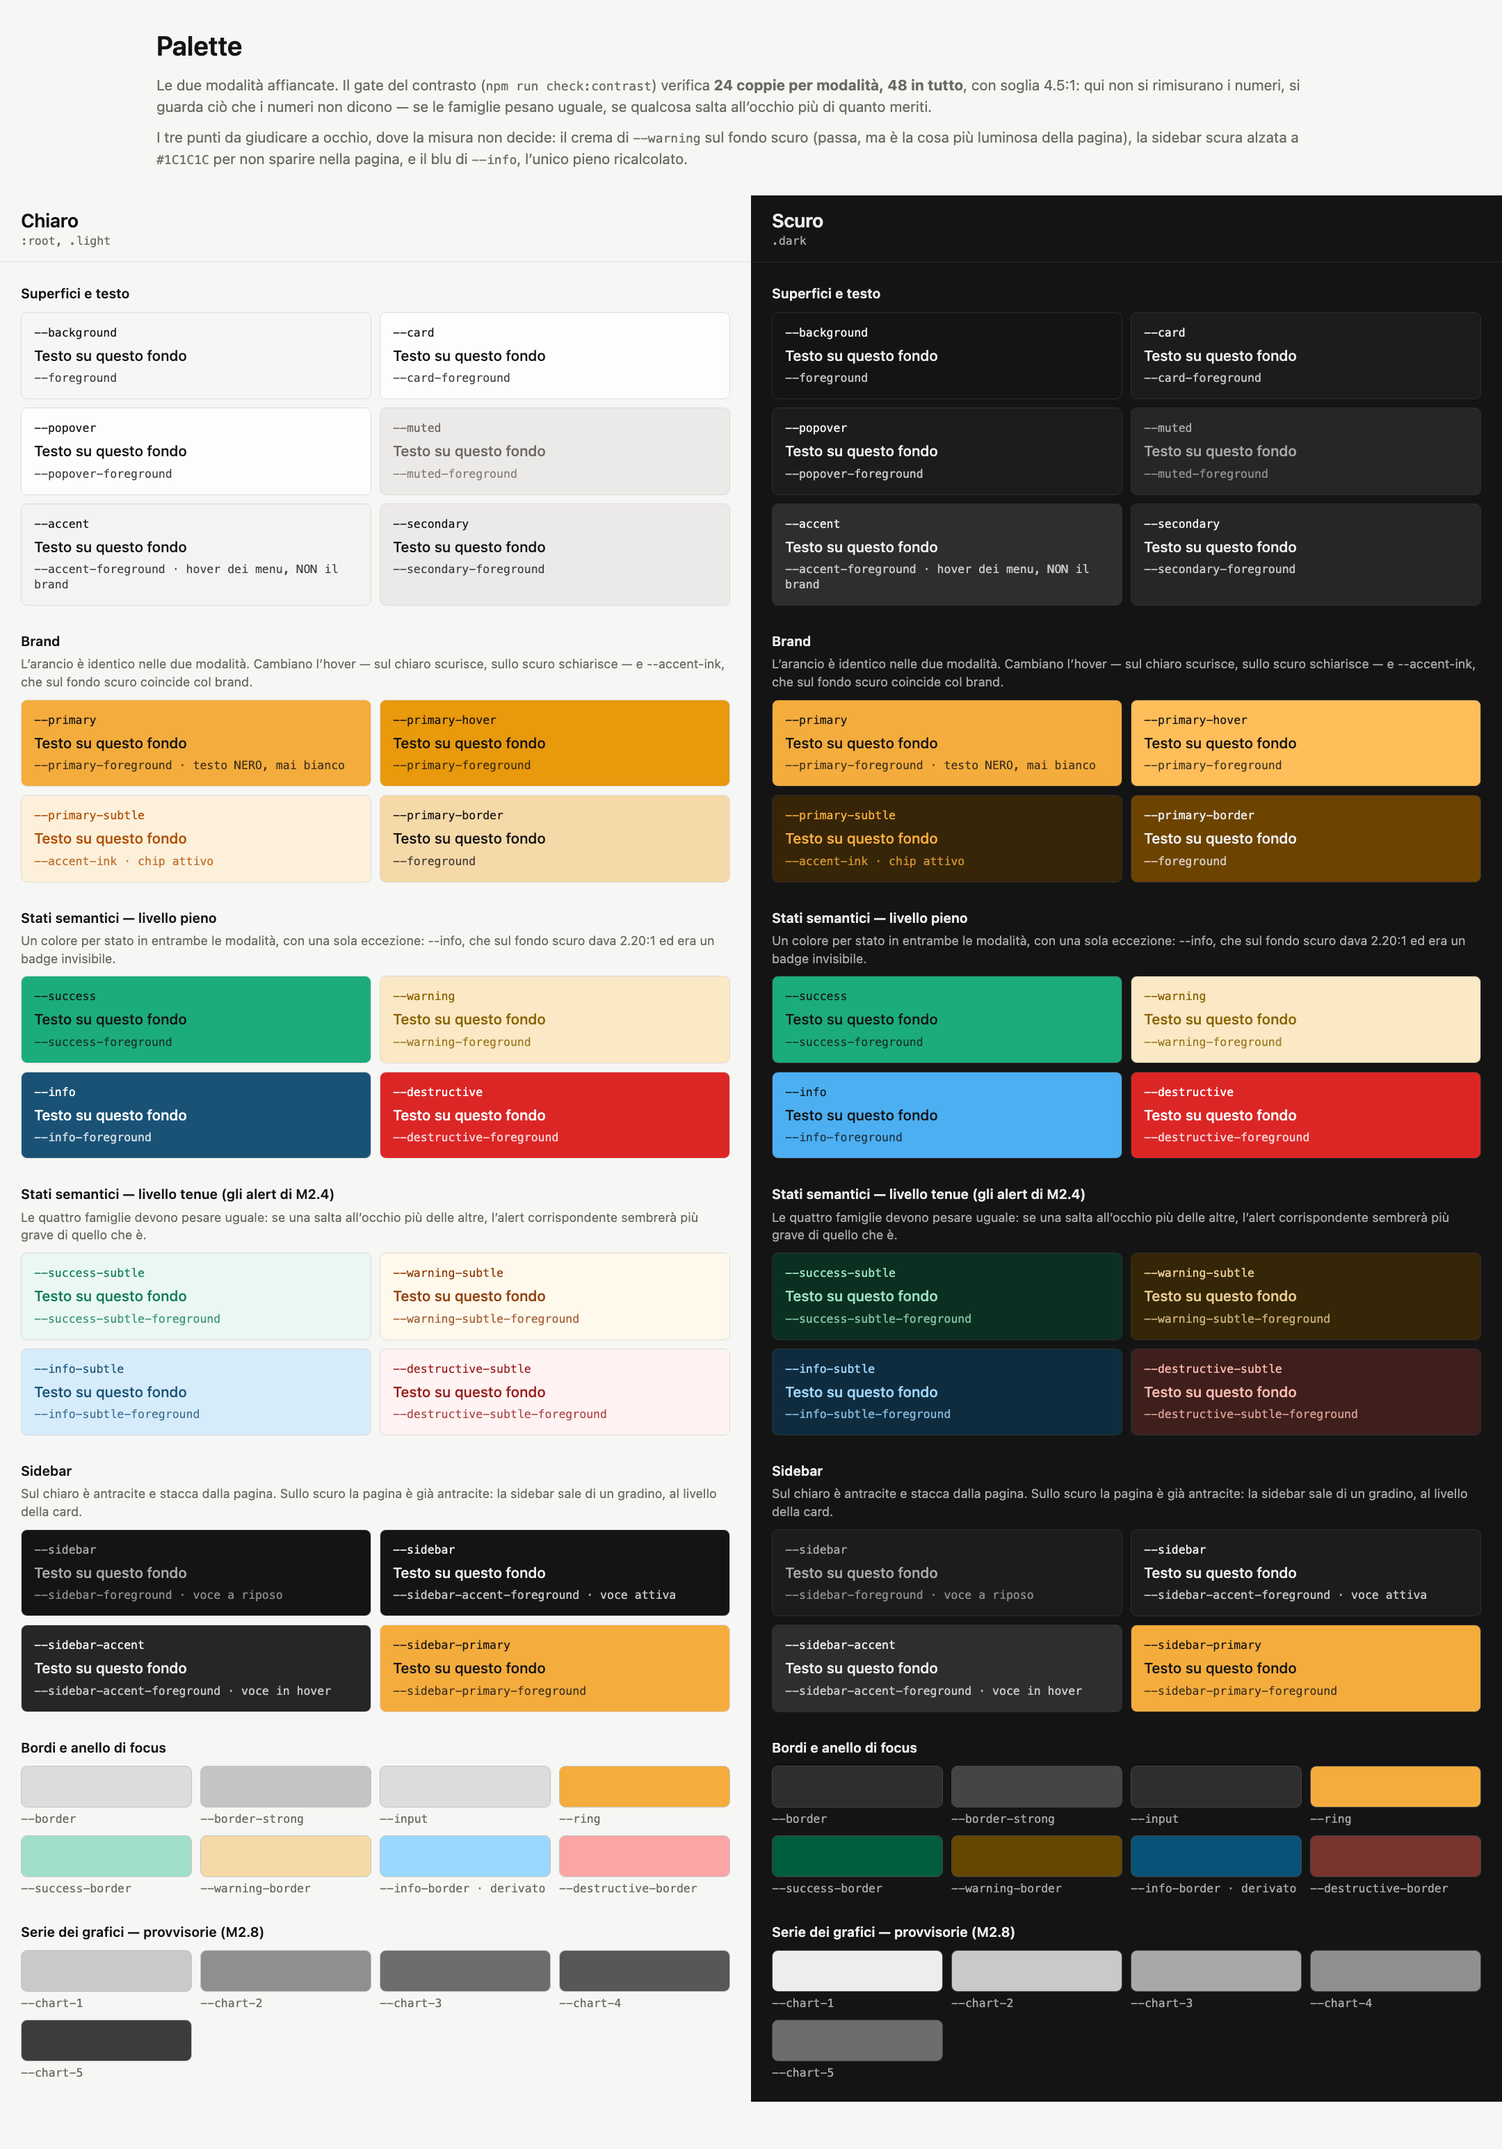
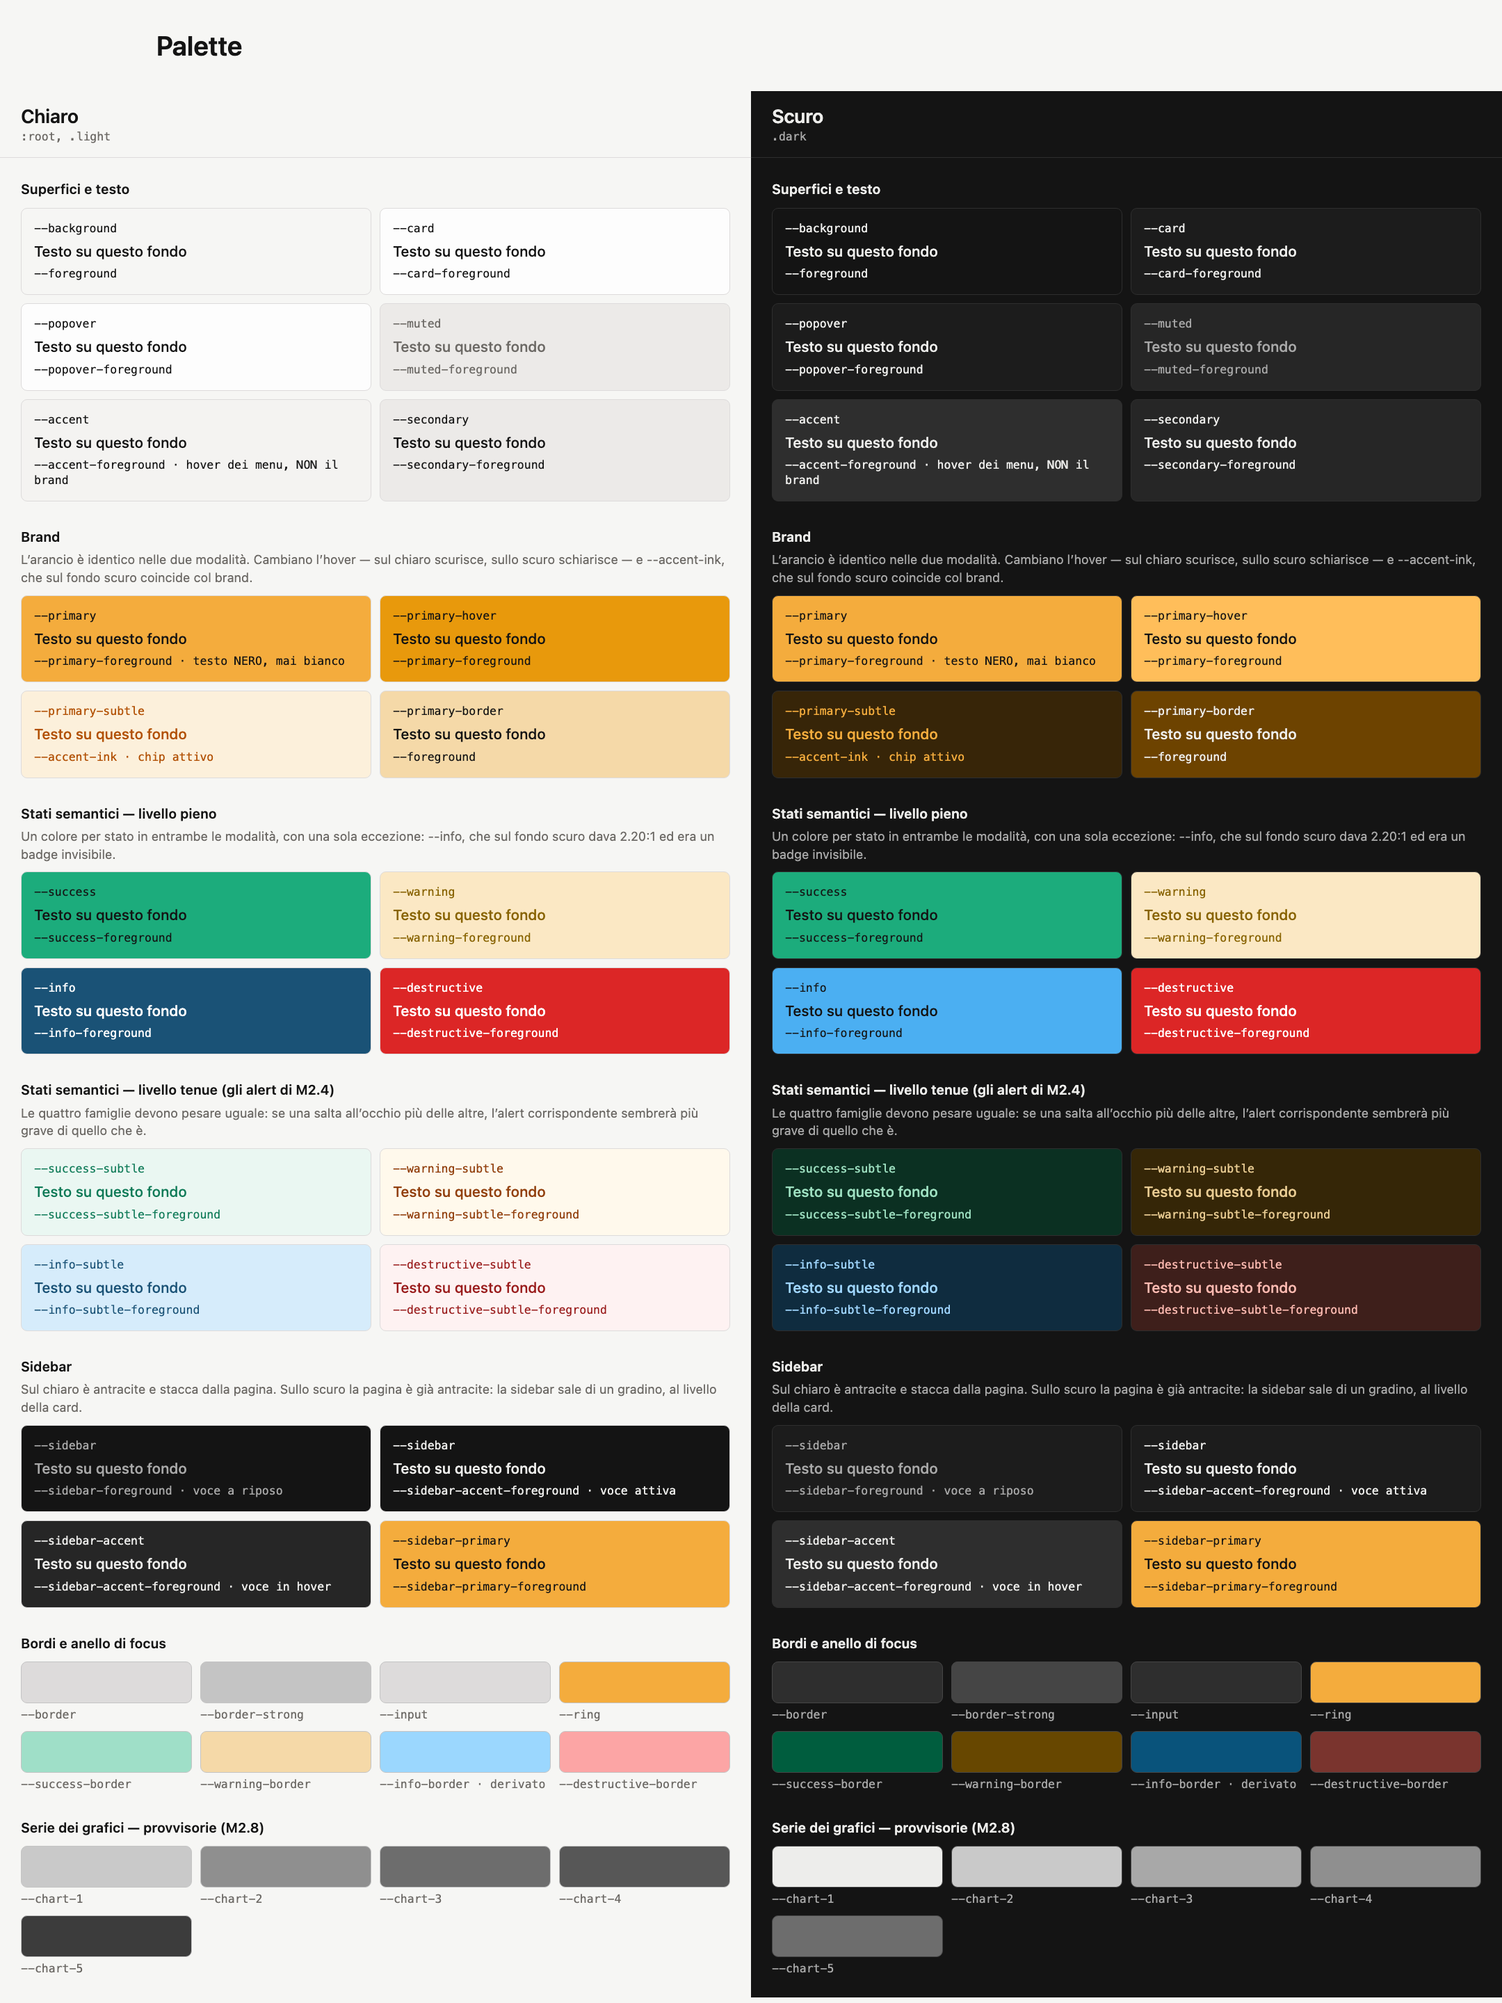
Palette: via il preambolo e l'opacità che rompeva il contrasto
Il pannello Accessibility segnava 9 violazioni color-contrast, tutte
sulla pagina appena scritta e tutte la stessa cosa: `opacity-80` sulla
terza riga di ogni tessera. Una coppia che passa a 4.55:1 sbiadita
all'80% scende a 3.17:1 — la pagina che dimostra il contrasto lo
stava rompendo. L'opacità su un testo non è una scelta tipografica: è
un cambio di colore che nessun token dichiara e che `check:contrast`
non può vedere, perché avviene in composizione.

Tolti anche i due paragrafi di commento dall'intestazione.

axe ora è a 0 violazioni e 0 incomplete sulla Palette. Passato sullo
stesso controllo, `button` conferma i due rilievi già in carico a
M2.1 e corregge le mie stime a mano: destructive 3.82:1 in chiaro e
3.57:1 in scuro, link 1.79:1 in chiaro e nessuna violazione in scuro
— cioè un difetto che una sola delle due modalità rivela.

Il controllo diventa una regola in CLAUDE.md §Conduzione, e M2.9
guadagna la sua condizione d'ingresso: zero violazioni aperte prima
di girare l'interruttore, o la CI nasce rossa.

diff --git a/stories/Palette.stories.tsx b/stories/Palette.stories.tsx
@@ -19,6 +19,16 @@ import type { Meta, StoryObj } from '@storybook/react-vite'
  * `npm run check:contrast`, che è il gate. Una seconda misura in pagina
  * potrebbe divergere dalla prima, e allora non si saprebbe a quale credere.
  * Il click-to-copy e l'elenco completo dei token arrivano in M1.5.
+ *
+ * **Niente `opacity-*` sul testo, mai, e qui meno che altrove.** La prima
+ * versione di questa pagina metteva `opacity-80` sulla terza riga di ogni
+ * tessera per attenuarla: axe-core ha trovato 9 violazioni di contrasto, tutte
+ * lì. Una coppia che passa a 4.55:1 sbiadita all'80% scende a 3.17:1 — la
+ * pagina che dimostra il contrasto lo stava rompendo. L'opacità su un testo
+ * NON è una scelta tipografica: è un cambio di colore che nessun token
+ * dichiara e che il gate delle coppie non può vedere, perché avviene in
+ * composizione, nel browser. Se una riga deve pesare meno, si usa un token
+ * più tenue — che è già stato misurato — o un gradino tipografico più piccolo.
  */
 
 type Tessera = { token: string; su?: string; nota?: string }
@@ -118,7 +128,7 @@ function Coppia({ token, su, nota }: Tessera) {
       <div className="mt-1 text-base font-medium" style={{ color: `var(--${su})` }}>
         Testo su questo fondo
       </div>
-      <div className="mt-1 font-mono text-xs opacity-80" style={{ color: `var(--${su})` }}>
+      <div className="mt-1 font-mono text-xs" style={{ color: `var(--${su})` }}>
         --{su}
         {nota ? ` · ${nota}` : ''}
       </div>
@@ -184,20 +194,6 @@ function Affiancate() {
     <div className="min-h-dvh bg-background">
       <header className="mx-auto max-w-page px-5 pt-6 pb-2">
         <h1 className="text-title font-semibold text-foreground">Palette</h1>
-        <p className="mt-2 text-base text-muted-foreground">
-          Le due modalità affiancate. Il gate del contrasto (
-          <code className="font-mono text-sm">npm run check:contrast</code>) verifica{' '}
-          <strong>24 coppie per modalità, 48 in tutto</strong>, con soglia 4.5:1: qui non si
-          rimisurano i numeri, si guarda ciò che i numeri non dicono — se le famiglie pesano
-          uguale, se qualcosa salta all’occhio più di quanto meriti.
-        </p>
-        <p className="mt-2 text-base text-muted-foreground">
-          I tre punti da giudicare a occhio, dove la misura non decide: il crema di{' '}
-          <code className="font-mono text-sm">--warning</code> sul fondo scuro (passa, ma è la cosa
-          più luminosa della pagina), la sidebar scura alzata a{' '}
-          <code className="font-mono text-sm">#1C1C1C</code> per non sparire nella pagina, e il blu
-          di <code className="font-mono text-sm">--info</code>, l’unico pieno ricalcolato.
-        </p>
       </header>
       <div className="mt-4 grid grid-cols-1 lg:grid-cols-2">
         <Colonna modo="light" etichetta="Chiaro" />

diff --git a/WORKLOG.md b/WORKLOG.md
@@ -405,3 +405,45 @@ Cambiato anche `--overlay`, da 45% a 70% dello stesso nero Tassullo: un velo al 
 ### Prossimi passi
 
 **M1.4** — densità touch. Sono già noti i due pezzi che mancano: lo **scatto di tipografia**, che non deriva da `--spacing` e quindi non arriva da solo, e la verifica che lo scaling non deformi larghezze massime, icone e sidebar. Il valore provvisorio in `src/index.css` è `0.34375rem` e va chiuso lì (`docs/DECISIONI.md` §6). Con M1.3 fatto, la densità va ora provata su **quattro** combinazioni e non due.
+
+## 2026-09-07 — Il pannello Accessibility guardato davvero: 9 violazioni, tutte mie
+
+Rilievo di Francesco su M1.3, e aveva ragione due volte: sulla pagina Palette (troppo testo di commento) e sul pannello **Accessibility** di Storybook, che segnava **Violations 1** — *serious*, `color-contrast`, 9 nodi. Avevo dichiarato il task finito senza aprirlo. È il difetto più imbarazzante possibile su un task il cui criterio è il contrasto.
+
+### Cosa dice axe, e cosa dicevo io
+
+Prima di guardare ho provato a stimare a mano con uno script nel browser: **sbagliava tutto**, perché i colori calcolati sono `oklch(…)` e il mio parser leggeva i numeri come se fossero RGB — 216 falsi positivi con rapporto 1.00 su testo perfettamente leggibile. Scartato e caricato axe-core vero (`node_modules/axe-core`, servito via `/@fs/` dal dev server di Storybook). Lezione secca: **quando esiste lo strumento, si usa lo strumento**; una misura fatta al volo che non si sa validare è peggio di nessuna misura, perché sembra un dato.
+
+Le 9 violazioni erano **tutte la stessa cosa, e tutte mie**: `opacity-80` sulla terza riga di ogni tessera, messa per attenuarla. Una coppia che passa a 4.55:1 sbiadita all'80% scende a **3.17:1**. La pagina che dimostra il contrasto lo stava rompendo.
+
+**Il punto generale, che vale oltre questa pagina.** `opacity-*` su un testo **non è una scelta tipografica**: è un cambio di colore che nessun token dichiara e che avviene *in composizione*, nel browser. `check:contrast` non può vederlo — verifica coppie di token, e i due token qui sono giusti. Se una riga deve pesare meno si usa un token più tenue, che è già stato misurato, o un gradino tipografico più piccolo. Scritto nel commento in testa alla story, dove chi la modifica lo trova.
+
+Tolta l'opacità e tolti i due paragrafi di commento dall'intestazione: **axe su tutte le regole, 0 violazioni e 0 incomplete**, 9 controlli passati.
+
+### E intanto axe ha confermato i rilievi su `button`, correggendo le mie stime
+
+Passato lo stesso controllo su `Primitive/Button`, in **entrambe** le modalità:
+
+| variante | chiaro | scuro |
+|---|---|---|
+| `destructive` | **3.82:1** | **3.57:1** |
+| `link` | **1.79:1** | *nessuna violazione* |
+
+Due cose. La prima: axe **conferma sperimentalmente** ciò che avevo dedotto poche ore fa dai token — il difetto di `link` **esiste solo in chiaro** e in scuro non compare affatto. La seconda: le mie stime a mano per `destructive` (3.94 chiaro / 3.25 scuro) erano **sbagliate di poco ma sbagliate**, perché calcolavo la composizione io invece di leggere il pixel. Le misure di axe sostituiscono le mie nel blocco M2.1, e da qui in poi **fa fede axe**.
+
+### La regola, perché non dipenda dal fatto che me lo ricordi
+
+In `CLAUDE.md` §Conduzione: **prima di dichiarare finito un task, il pannello Accessibility di ogni story toccata deve essere a zero violazioni, guardato in entrambe le modalità.** Una violazione o si chiude, o si annota nel blocco del task che la chiuderà, con la misura.
+
+Con una precisazione che mancava in tutto il piano e che chiarisce M2.9: **axe-core c'è già**, è nel pannello di ogni story dal primo giorno. Quello che M2.9 aggiunge non è lo strumento ma l'**automazione** (`a11y.test = 'error'` in CI). Annotata anche la sua **condizione d'ingresso**: il conto delle violazioni aperte deve essere zero prima di girare l'interruttore, e oggi non lo è (2 su `button`, in carico a M2.1). Una CI rossa il primo giorno è una CI che qualcuno disattiva la settimana dopo.
+
+### Verifiche eseguite
+
+- axe-core su `Tema/Palette`, tutte le regole: **0 violazioni, 0 incomplete, 9 passate**.
+- axe-core su `Primitive/Button` in chiaro e in scuro: 2 violazioni note, entrambe già in carico a M2.1 e ora misurate.
+- `npm run check` (contrasto + registry), `npx tsc -b --force`, `npx oxlint`, `npm run build`, `npm run build-storybook`: verdi.
+- Screenshot `docs/img/M1.3-palette-chiaro-scuro.png` rifatto sulla pagina corretta.
+
+### Rimasto fuori, di proposito
+
+Le note **sotto ogni gruppo** ("L'arancio è identico nelle due modalità…", "Le quattro famiglie devono pesare uguale…") sono rimaste: sono didascalie del gruppo, non preambolo, e servono a dire cosa guardare in quelle tessere. Se anche quelle sono di troppo, si tolgono.

diff --git a/PIANO.md b/PIANO.md
@@ -191,9 +191,18 @@ Le primitive si aggiungono con `npx shadcn@latest add <nome>` **dentro `registry
   **Rimisurati in modalità scura (M1.3, 2026-09-07), e cambiano il quadro su due punti:**
 
   - `variant: link` in dark dà **9.49:1** e passa. Il difetto **esiste solo in chiaro**, quindi guardando la primitiva con l'interruttore sullo scuro sembra a posto: è il primo caso concreto di un rilievo che una sola delle quattro combinazioni rivela, ed è la ragione per cui l'accettazione ne chiede quattro. Il rimedio previsto regge in entrambe perché `--accent-ink` è definito per modalità: `text-accent-ink` dà 4.77:1 in chiaro e 9.49:1 in scuro, **una sola classe**.
-  - `variant: destructive` in dark dà **3.25:1** (fondo composito `#3C1818`, testo `#DC2626`): peggiora, e resta sotto soglia in entrambe le modalità. La correzione prevista non cambia.
+  - `variant: destructive` resta sotto soglia in entrambe. La correzione prevista non cambia.
 
-  Da qui una regola operativa per tutta la FASE 2: **una misura fatta in una sola modalità non è una misura.** Le coppie di token le copre `check:contrast` su entrambe; come i componenti le accostano no, e finché non c'è axe-core (M2.9) lo copre solo l'occhio — su tutte e quattro le combinazioni.
+  **Misure rifatte con axe-core sulla story `Primitive/Button` (2026-09-07), e sono queste a fare fede** — non le stime a mano di §2bis, che le precedono e che axe corregge leggendo il pixel composito invece del token:
+
+  | variante | chiaro | scuro |
+  |---|---|---|
+  | `destructive` | **3.82:1** | **3.57:1** |
+  | `link` | **1.79:1** | *nessuna violazione* |
+
+  Sono le **2 violazioni axe oggi aperte** in tutto il progetto, entrambe in carico a questo task. Chiuderle qui riporta il conto a zero, che è la condizione da cui M2.9 deve partire per poter mettere `a11y.test = 'error'` senza trovarsi la CI rossa il primo giorno.
+
+  Da qui una regola operativa per tutta la FASE 2: **una misura fatta in una sola modalità non è una misura.** Le coppie di token le copre `check:contrast` su entrambe; come i componenti le accostano no. **axe-core c'è già** — è nel pannello Accessibility di ogni story, dal primo giorno: quello che M2.9 aggiunge non è lo strumento ma l'**automazione** (`a11y.test = 'error'` in CI). Fino ad allora il pannello si guarda a mano, in entrambe le modalità, prima di dichiarare finito un task (regola in `CLAUDE.md` §Conduzione).
 
   **Nota sulla scala tipografica**: con la scala Tassullo `text-sm` vale 12px invece dei 14px di default di Tailwind, quindi i bottoni del preset — che usano `text-sm` — sono più piccoli di prima. Da decidere qui quale gradino è quello giusto per il bottone, misurando.
 
@@ -248,6 +257,10 @@ Le primitive si aggiungono con `npx shadcn@latest add <nome>` **dentro `registry
   **Da fare passare anche `npm run check:registry`** (regola 4bis): a fine FASE 2 ogni primitiva deve avere il suo originale in `registry/.upstream/`, forma identica a shadcn, zero valori arbitrari nostri, e il conto dei token custom usati dentro i componenti scritto a verbale — è il costo che si pagherà a ogni aggiornamento di shadcn, e va conosciuto prima di arrivare a 40 componenti.
 
   **Perché questo gate non è rimandabile.** `check:contrast` (M1.1) verifica le **coppie di token**, non come i componenti le accostano. In M1.2 tre difetti reali della `button` del preset — fra cui un `text-primary` a 1.79:1 — sono passati sotto al gate e sono stati trovati a occhio sul workbench. axe-core sulle story è il controllo che li avrebbe presi: finché non c'è, ogni primitiva della FASE 2 va guardata a mano.
+
+  **Precisazione da M1.3 (2026-09-07): axe-core c'è già** — è nel pannello Accessibility di ogni story dal primo giorno, e in M1.3 ha trovato **9 violazioni vere** su una pagina appena scritta. Quello che manca, e che questo task aggiunge, non è lo strumento ma **l'automazione**: oggi il pannello va aperto a mano e nulla obbliga a farlo. Fino ad allora la regola sta in `CLAUDE.md` §Conduzione — pannello a zero, in entrambe le modalità, prima di dichiarare finito un task.
+
+  **Condizione d'ingresso di questo task**, e va verificata prima di girare l'interruttore: il conto delle violazioni aperte deve essere **zero**. Non lo è: `Primitive/Button` ne ha 2, in carico a M2.1. Mettere `a11y.test = 'error'` con violazioni note aperte significa una CI rossa il primo giorno, e una CI rossa il primo giorno è una CI che qualcuno disattiva la settimana dopo.
 
 ---
 

diff --git a/CLAUDE.md b/CLAUDE.md
@@ -71,6 +71,9 @@ Da sapere per non farci conto a sproposito: l'MCP è **solo lato consumo**. Non 
 - Quando una decisione **D** si chiude, si scrive **nel WORKLOG con la motivazione** e si aggiorna la riga in `CHECKLIST.md`. Una decisione chiusa senza motivazione scritta si riapre da sola fra tre mesi.
 - Uno **scostamento** dal piano (un componente che non regge, una libreria scartata, un'eccezione a Base UI) o si corregge, o si annota nel WORKLOG con la ragione. Mai in silenzio.
 - I **criteri di accettazione** dei task del piano si verificano davvero, non si dichiarano: se un criterio dice "cronometrato", si cronometra; se dice "verificato da tastiera", si prova la tastiera.
+- **Prima di dichiarare finito un task, il pannello Accessibility di ogni story toccata deve essere a zero violazioni** — e va guardato in **entrambe** le modalità, perché un difetto può esistere in una sola (provato: `variant: link` del bottone dà 1.79:1 in chiaro e **non compare affatto** in scuro). Una violazione o si chiude, o si annota nel blocco del task che la chiuderà, con la misura. Non si lascia accesa senza che sia scritto da qualche parte chi la prende in carico.
+  Questo **non** è il gate di M2.9: quello è axe-core in CI, che rende il controllo automatico e continuo. Fino ad allora il controllo esiste lo stesso, e lo si fa a mano. `check:contrast` non lo sostituisce: verifica le **coppie di token**, non come i componenti le accostano — l'opacità su un testo, per esempio, cambia il colore in composizione e nessun token la dichiara.
+  Violazioni oggi aperte e già assegnate: **2 su `Primitive/Button`** (`destructive` 3.82:1 in chiaro e 3.57:1 in scuro; `link` 1.79:1 in chiaro), entrambe in carico a **M2.1**.
 
 ## §Comandi
 
